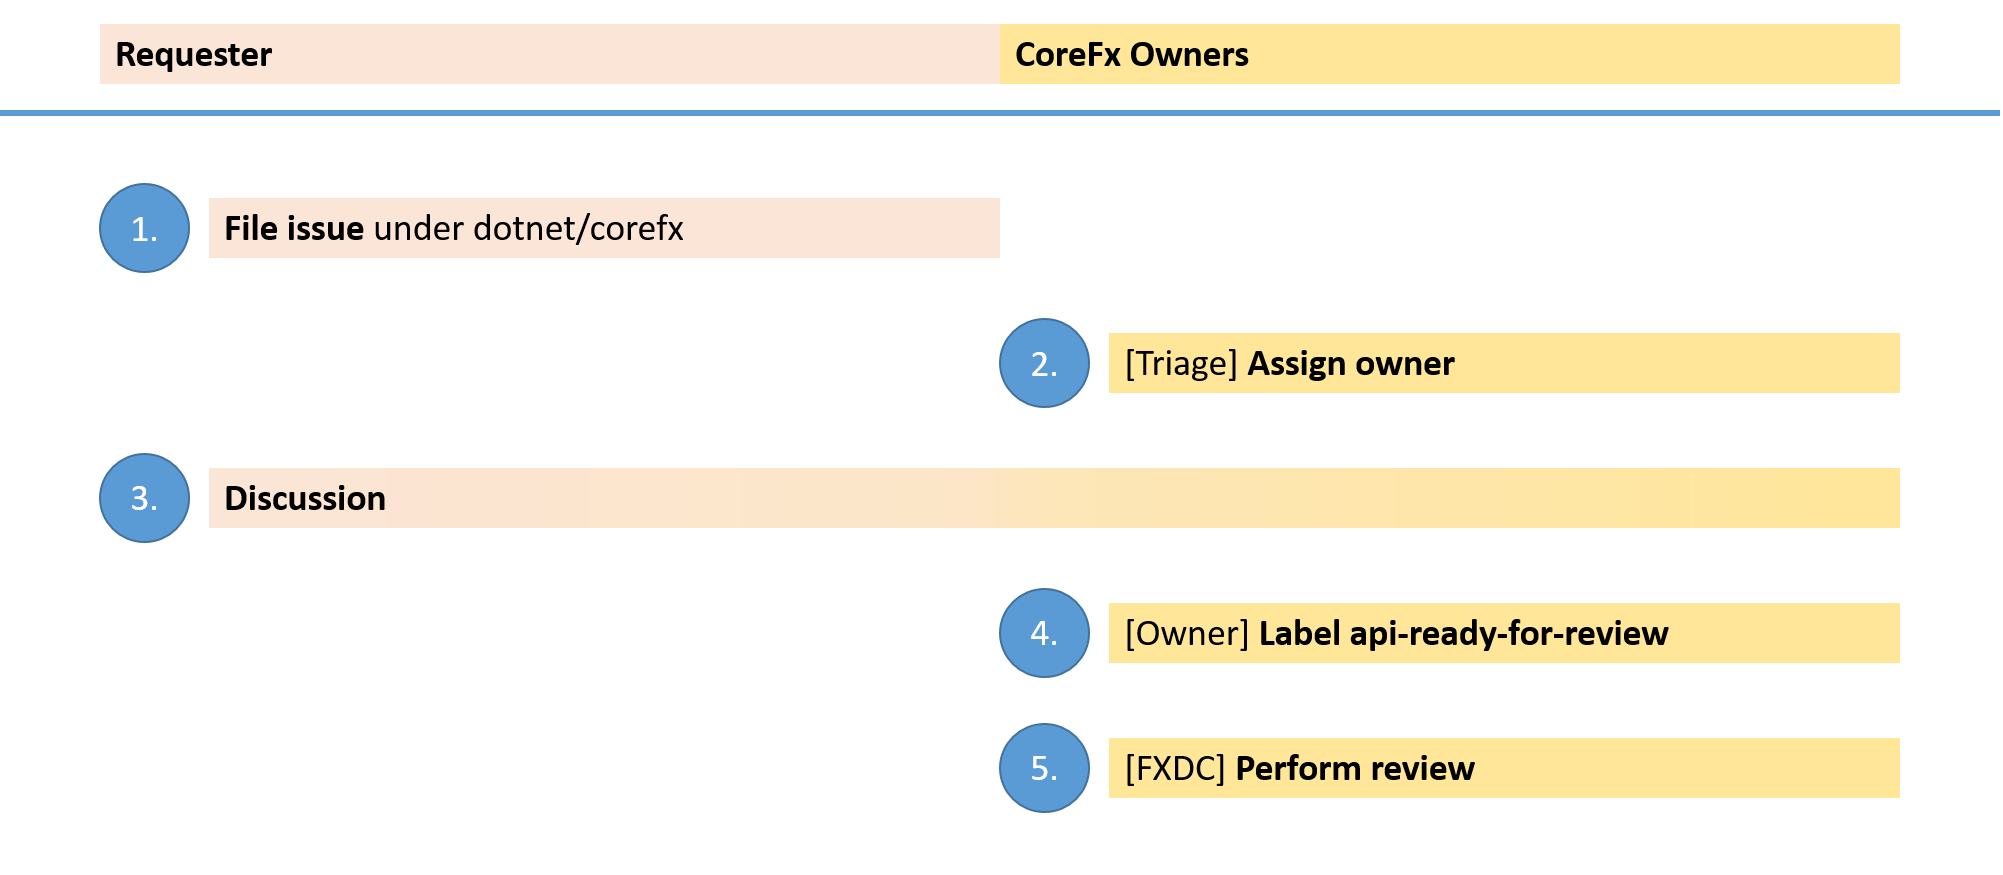
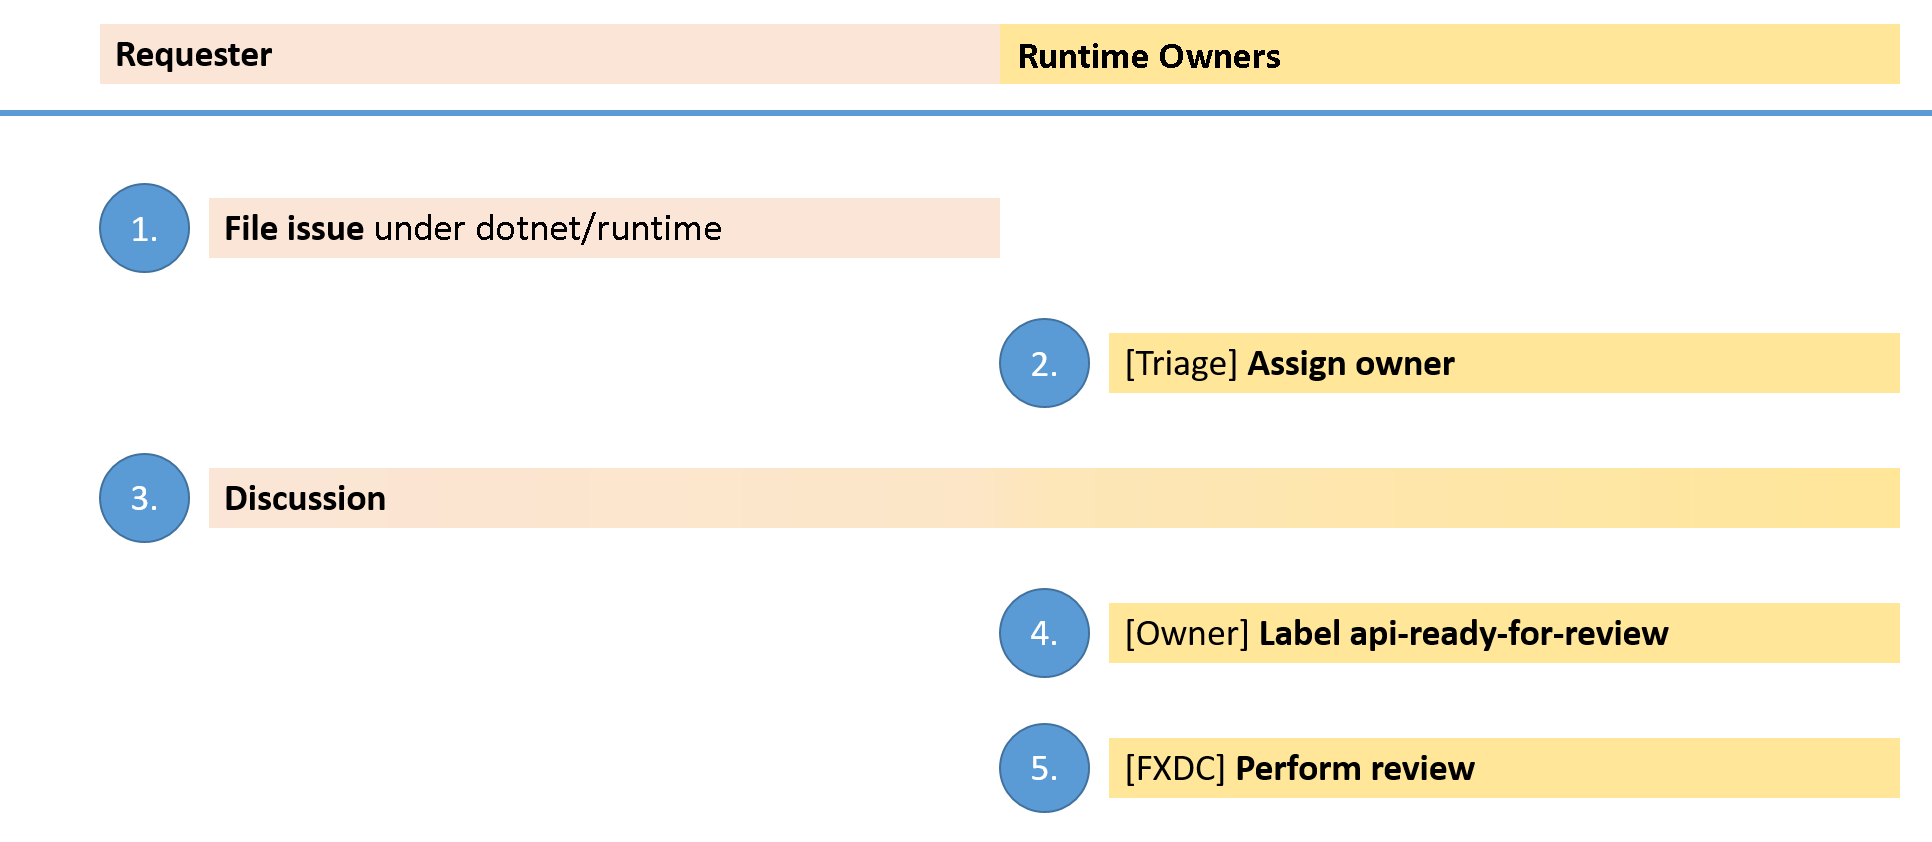
Update API review process image (corefx->runtime) (#33173)
* Update API Review Process image

* Update docs/project/api-review-process.md

diff --git a/docs/project/api-review-process.md b/docs/project/api-review-process.md
@@ -25,7 +25,7 @@ APIs and some code samples that show how it should be used. If changes are neces
 
 4. **Owner makes decision**. When the owner believes enough information is available to make a decision, they will update the issue accordingly:
 
-    * **Mark for review**. If the owner believes the proposal is actionable, they will label the issue with `api-ready-for-review`. [Here is a good example](https://github.com/dotnet/corefx/issues/4547) of as strong API proposal.
+    * **Mark for review**. If the owner believes the proposal is actionable, they will label the issue with `api-ready-for-review`. [Here is a good example](https://github.com/dotnet/runtime/issues/15725) of a strong API proposal.
     * **Close as not actionable**. In case the issue didn't get enough traction to be distilled into a concrete proposal, the owner will close the issue.
     * **Close as won't fix as proposed**. Sometimes, the issue that is raised is a good one but the owner thinks the concrete proposal is not the right way to tackle the problem. In most cases, the owner will try to steer the discussion in a direction that results in a design that we believe is appropriate. However, for some proposals the problem is at the heart of the design which can't easily be changed without starting a new proposal. In those cases, the owner will close the issue and explain the issue the design has.
     * **Close as won't fix**. Similarly, if proposal is taking the product in a direction we simply don't want to go, the issue might also get closed. In that case, the problem isn't the proposed design but in the issue itself.
